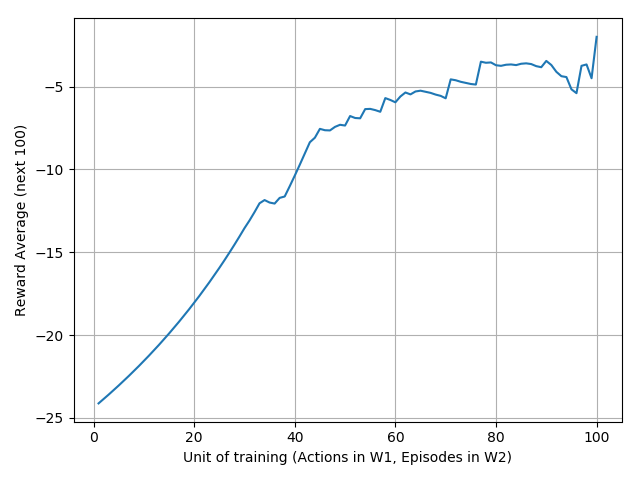
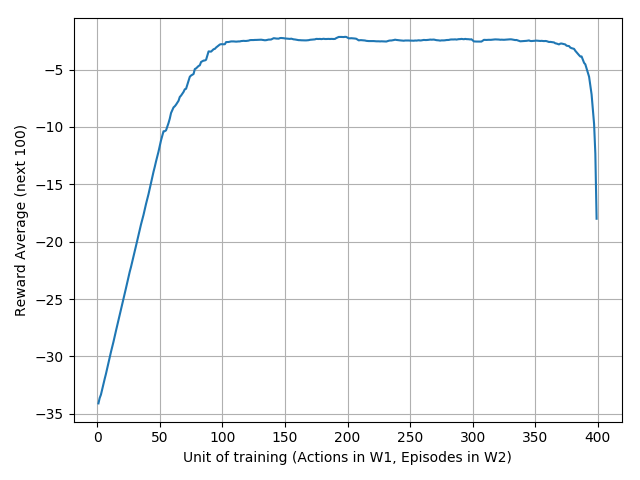
Bug fixed?

diff --git a/algorithms/D3PG.py b/algorithms/D3PG.py
@@ -34,21 +34,25 @@ class D3PG(DDPG):
         self.critic = DistCritic(self.action_dim, self.hidden_dims, self.n_atom, 'critic')
         self.critic_target = DistCritic(self.action_dim, self.hidden_dims, self.n_atom, 'target_critic')
 
+    def build_target_distribution(self):
+        with tf.variable_scope('normalize_states'):
+            bn = tf.layers.BatchNormalization(_reuse=tf.AUTO_REUSE)
+            nexts = bn.apply(self.nexts, training=self.training)
+        target_Z = self.critic_target(nexts, self.actor_target(nexts))
+        target_atom = tf.expand_dims(self.rewards, axis=1) + tf.expand_dims(self.are_non_terminal, axis=1) * \
+            np.power(self.gamma, self.N) * self.atoms
+        projected = self.project_distribution(target_atom, target_Z, self.atoms)
+        return projected
 
     def build_loss(self):
         with tf.variable_scope('normalize_states'):
             bn = tf.layers.BatchNormalization(_reuse=tf.AUTO_REUSE)
             states = bn.apply(self.states, training=self.training)
-            nexts = bn.apply(self.nexts, training=self.training)
-        target_Z = tf.expand_dims(self.rewards, axis=1) + tf.expand_dims(self.are_non_terminal, axis=1) * \
-            np.power(self.gamma, self.N) * self.critic_target(nexts, self.actor_target(nexts))
-        target_atom = tf.expand_dims(self.rewards, axis=1) + tf.expand_dims(self.are_non_terminal, axis=1) * \
-            np.power(self.gamma, self.N) * self.atoms
-        projected = self.project_distribution(target_atom, target_Z, self.atoms)
-        self.critic_loss = tf.reduce_mean(tf.reduce_sum(projected*tf.log(1e-10+self.critic(states, self.actions)), axis=1), axis=0)
+        projected = tf.stop_gradient(self.build_target_distribution())
+        probabilities = self.critic(states, self.actions)
+        self.critic_loss = -tf.reduce_mean(tf.reduce_sum(projected*tf.log(1e-20+probabilities), axis=1), axis=0)
         self.policy = self.actor(states)
-        probabilities = tf.reduce_mean(self.critic(states, self.policy), axis=0)
-        EZ = tf.reduce_sum(probabilities*self.atoms)
+        EZ = tf.reduce_mean(tf.reduce_sum(self.critic(states, self.policy)*tf.expand_dims(self.atoms, axis=0), axis=1), axis=0)
         self.actor_loss = -EZ
 
     def project_distribution(self, supports, weights, target_support):	

diff --git a/main.py b/main.py
@@ -21,14 +21,14 @@ def parse_arguments():
 	parser.add_argument('--eval', default=False, action='store_true',
 	                    help='Set this to False when training and True when evaluating.')
 	parser.add_argument('--restore', default=False, action='store_true', help='Restore training')
-	parser.add_argument('--reward-type', default='dense', help='[spase, dense]')
+	parser.add_argument('--reward-type', default='sparse', help='[sparse, dense]')
 	parser.add_argument('--hidden-dims', default=[256, 256], type=list, help='Hidden dimension of network')
 	parser.add_argument('--gamma', default=1.0, type=float, help='Reward discount')
 	parser.add_argument('--tau', default=1e-2, type=float, help='Soft parameter update tau')
 	parser.add_argument('--kappa', default=1.0, type=float, help='Kappa used in quantile Huber loss')
 	parser.add_argument('--n-quantile', default=16, type=int, help='Number of quantile to approximate distribution')
 	parser.add_argument('--actor-lr', default=1e-4, type=float, help='Actor learning rate')
-	parser.add_argument('--critic-lr', default=1e-3, type=float, help='Critic learning rate')
+	parser.add_argument('--critic-lr', default=1e-4, type=float, help='Critic learning rate')
 	parser.add_argument('--n-atom', default=51, type=int, help='Number of atoms used in D3PG')
 	parser.add_argument('--batch-size', default=256, type=int)
 	parser.add_argument('--step', default=100, type=int, help='Number of gradient descent steps per episode')
